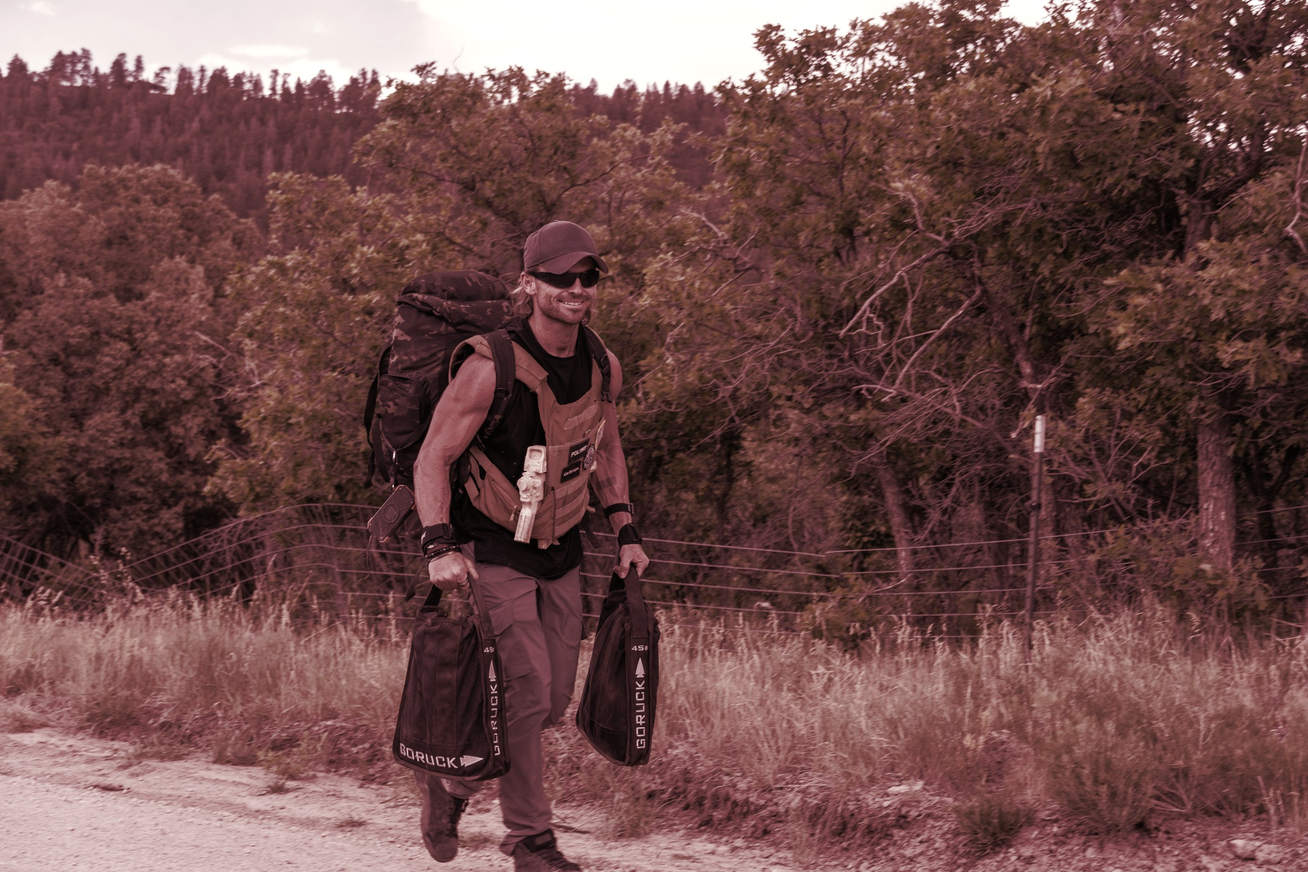
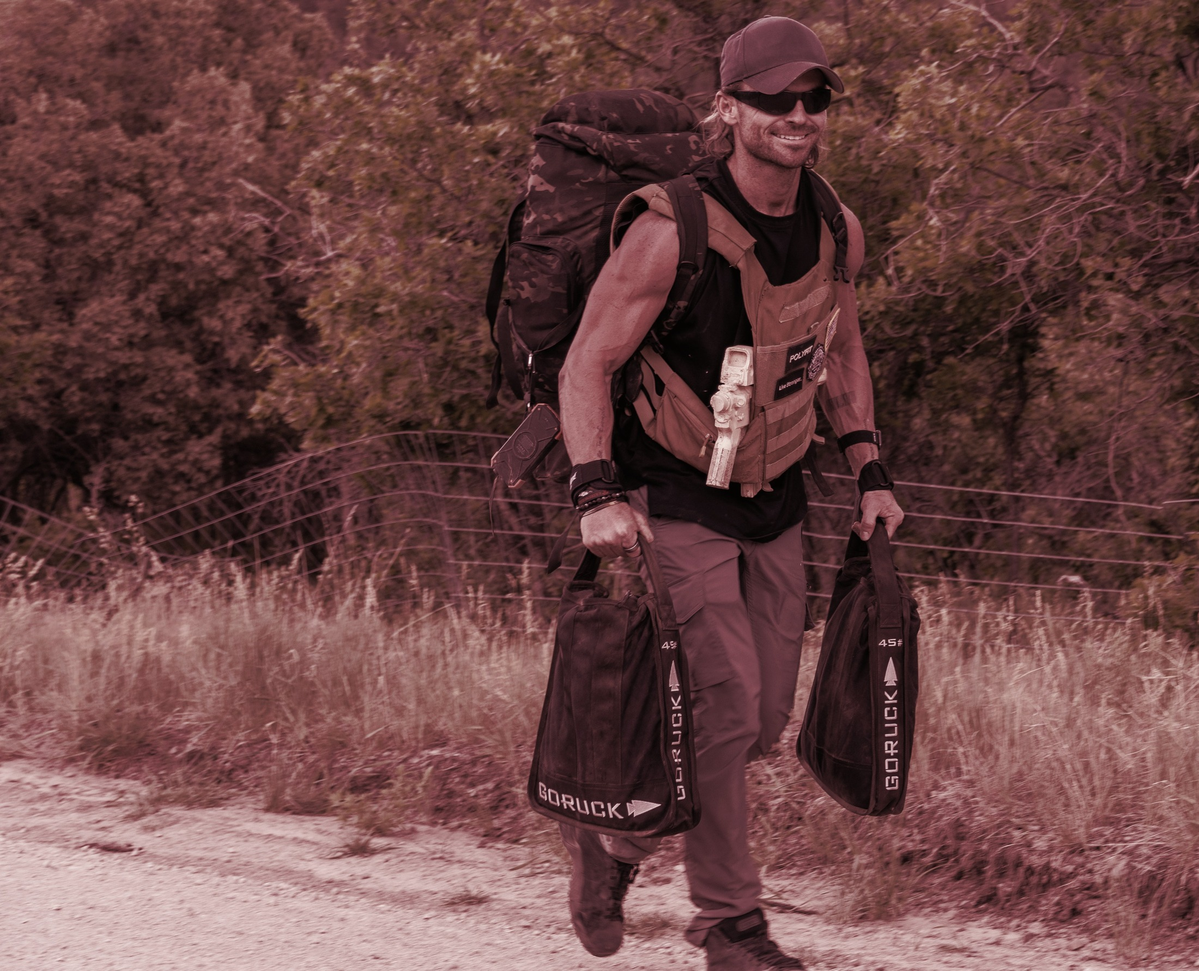
Re-crop hero photo so the runner sits right-of-center
CSS object-position could not move him far enough since the source
image aspect ratio is too close to the hero banner aspect, leaving
little crop overflow to work with. Re-cropped the web hero image from
the full-res source instead: tighter framing that trims the excess
right-side treeline and repositions the runner, with full body and
GORUCK bags intact, to sit right-of-center, filling the space the copy
block used to leave empty. Reverted objectPosition to center since the
new source is already composed correctly. Full-res source file is left
untouched as the flexible backup for future re-crops.

diff --git a/src/app/page.tsx b/src/app/page.tsx
@@ -49,7 +49,7 @@ export default function HomePage() {
           preload
           sizes="100vw"
           quality={85}
-          style={{ objectFit: "cover", objectPosition: "40% center" }}
+          style={{ objectFit: "cover", objectPosition: "center" }}
         />
 
         {/* Scrim for text contrast over the photo */}
